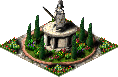
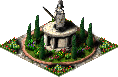
Horsie statue

Changed region(s): [[0.6356, 0.4156, 0.7373, 0.6494], [0.5339, 0.2597, 0.6102, 0.3117], [0.4576, 0.3377, 0.5339, 0.4156]]

diff --git a/src/window/building_info.c b/src/window/building_info.c
@@ -616,7 +616,13 @@ static void draw_background(void)
             window_building_draw_fountain(&context);
         } else if (btype == BUILDING_WELL) {
             window_building_draw_well(&context);
-        } else if (btype == BUILDING_SMALL_STATUE || btype == BUILDING_MEDIUM_STATUE || btype == BUILDING_LARGE_STATUE || btype == BUILDING_SMALL_STATUE_ALT || btype == BUILDING_SMALL_STATUE_ALT_B) {
+        } else if (btype == BUILDING_SMALL_STATUE || 
+            btype == BUILDING_MEDIUM_STATUE || 
+            btype == BUILDING_LARGE_STATUE || 
+            btype == BUILDING_SMALL_STATUE_ALT || 
+            btype == BUILDING_SMALL_STATUE_ALT_B || 
+            btype == BUILDING_LEGION_STATUE || 
+            btype == BUILDING_HORSE_STATUE) {
             window_building_draw_statue(&context);
         } else if (btype == BUILDING_SMALL_POND || btype == BUILDING_LARGE_POND) {
             window_building_draw_pond(&context);

diff --git a/src/building/properties.c b/src/building/properties.c
@@ -47,7 +47,7 @@ mod_building_properties_mapping mod_building_properties[MOD_BUILDINGS] = {
     {BUILDING_TAVERN, { 2, 0, 0, 0, 0 }, "Areldir", "Tavern", "Tavern OFF"},
     {BUILDING_GRAND_GARDEN, { 2, 1, 0, 0, 0 }, "Areldir", "Engineer", "Eng Guild OFF"},
     {BUILDING_ARENA, { 3, 0, 0, 0, 0 }, "Areldir", "Arena", "Arena OFF" },
-    {BUILDING_HORSE_STATUE, { 3, 1, 0, 0, 0 }, "Areldir", "Aesthetics", "Eng Guild OFF"},
+    {BUILDING_HORSE_STATUE, { 3, 1, 0, 0, 1 }, "Areldir", "Aesthetics", "Eque Statue"},
     {BUILDING_DOLPHIN_FOUNTAIN, { 2, 1, 0, 0, 0 }, "Areldir", "Aesthetics", "Eng Guild OFF"},
     {BUILDING_HEDGE_DARK, { 1, 1, 0, 0, 0 }, "Areldir", "Aesthetics", "Eng Guild OFF"},
     {BUILDING_HEDGE_LIGHT, { 1, 1, 0, 0, 0 }, "Areldir", "Aesthetics", "Eng Guild OFF"},

diff --git a/src/building/construction_building.c b/src/building/construction_building.c
@@ -657,7 +657,10 @@ static void add_to_map(int type, building *b, int size,
             add_building(b, mods_get_image_id(mods_get_group_id("Areldir", "Arena"), "Arena ON"));
             break;
         case BUILDING_HORSE_STATUE:
-            add_building(b, mods_get_image_id(mods_get_group_id("Areldir", "Engineer"), "Eng Guild ON"));
+            orientation = building_rotation_get_rotation();
+            b->subtype.orientation = orientation;
+            add_building(b, mods_get_image_id(mods_get_group_id("Areldir", "Aesthetics"), "Eque Statue") + orientation % 2);
+            break;
             break;
         case BUILDING_DOLPHIN_FOUNTAIN:
             add_building(b, mods_get_image_id(mods_get_group_id("Areldir", "Engineer"), "Eng Guild ON"));
